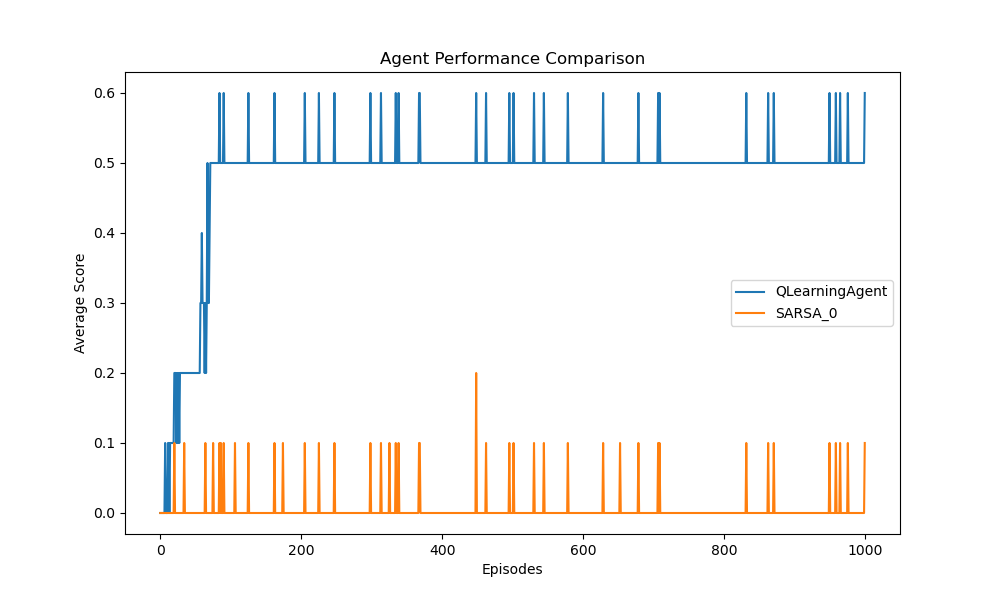
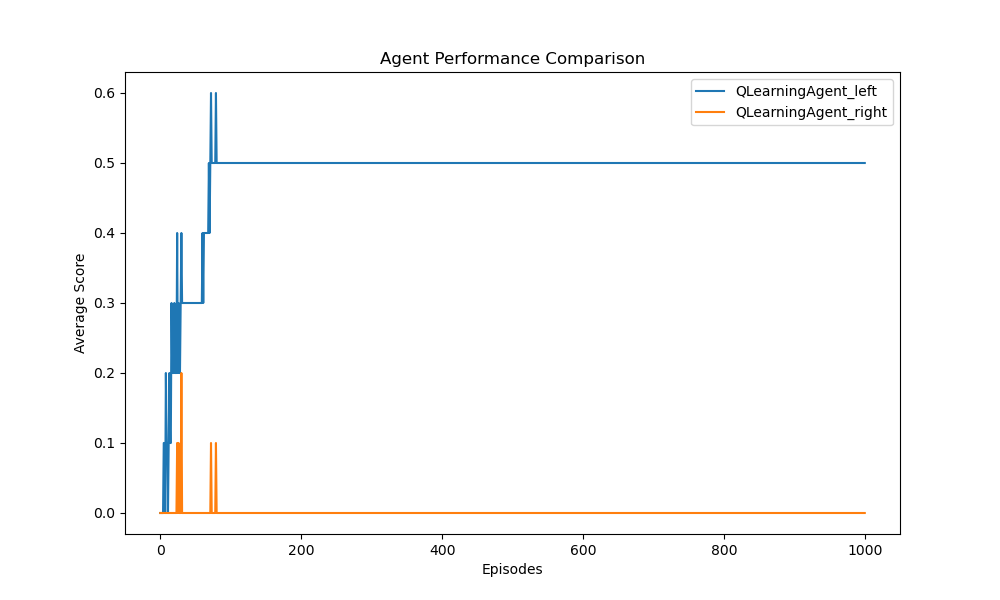
if running two agents of the same type against each other, change the labels

diff --git a/doubles.py b/doubles.py
@@ -385,8 +385,14 @@ if __name__ == '__main__':
     
     results = run_trials(agent_left, agent_right, args)
     
+    if agent_left.__name__ == agent_right.__name__:
+        agent_labels.append(f"{str(agent_left.__name__)}_left")
+        agent_labels.append(f"{str(agent_right.__name__)}_right")
+    else:
+        agent_labels.append(str(agent_left.__name__))
+        agent_labels.append(str(agent_right.__name__))
+    
     agents.append(agent_left)
-    agent_labels.append(str(agent_left.__name__))
     avg_rewards.append(results["avg_rewards_left"])
     avg_scores.append(results["avg_scores_left"])
     visit_counts.append(results["state_action_visit_count_left"])
@@ -394,7 +400,6 @@ if __name__ == '__main__':
     win_statuses.append(results["win_statuses_left"])
     
     agents.append(agent_right)
-    agent_labels.append(str(agent_right.__name__))
     avg_rewards.append(results["avg_rewards_right"])
     avg_scores.append(results["avg_scores_right"])
     visit_counts.append(results["state_action_visit_count_right"])

diff --git a/pongEnv.py b/pongEnv.py
@@ -209,5 +209,7 @@ class PongEnv:
 
 if __name__ == '__main__':
     env = PongEnv(grid_size=10)
+    state = env.reset()
+    print("Initial state:", state)
     print("Total states: ", env.get_number_of_states())
     print("Total actions: ", env.get_number_of_actions())
